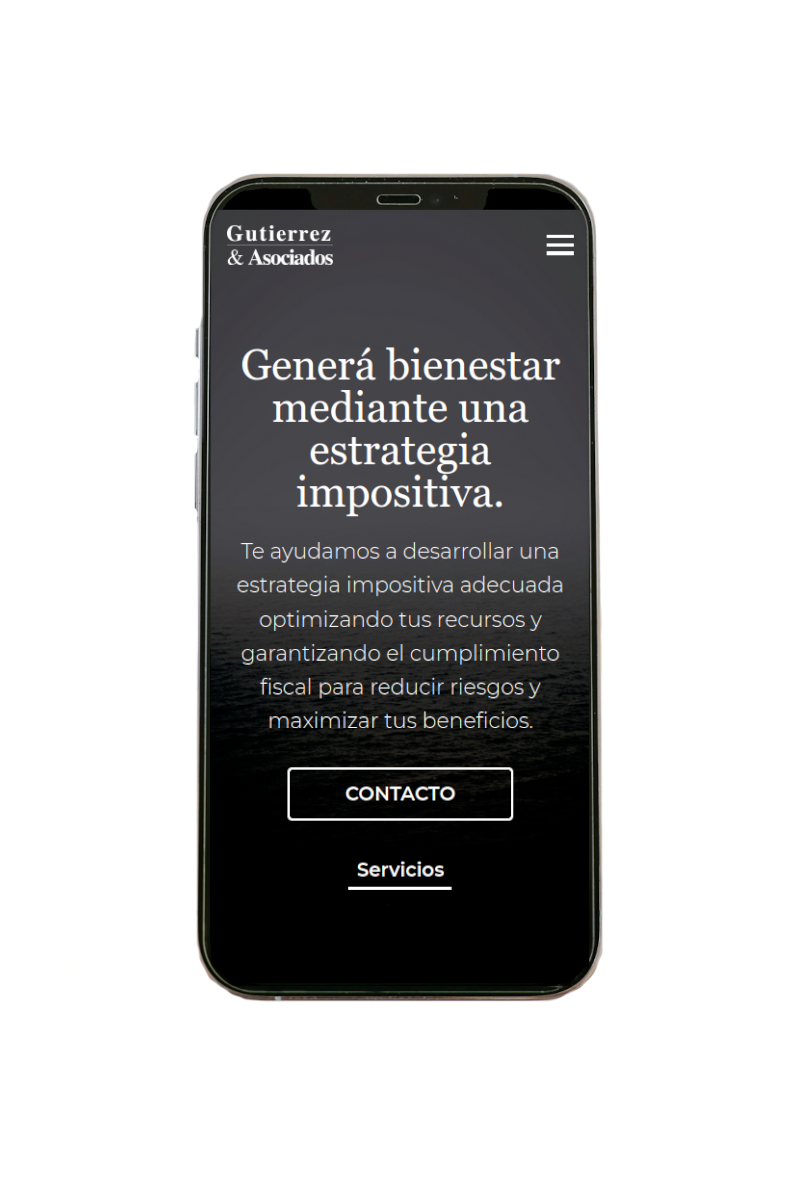
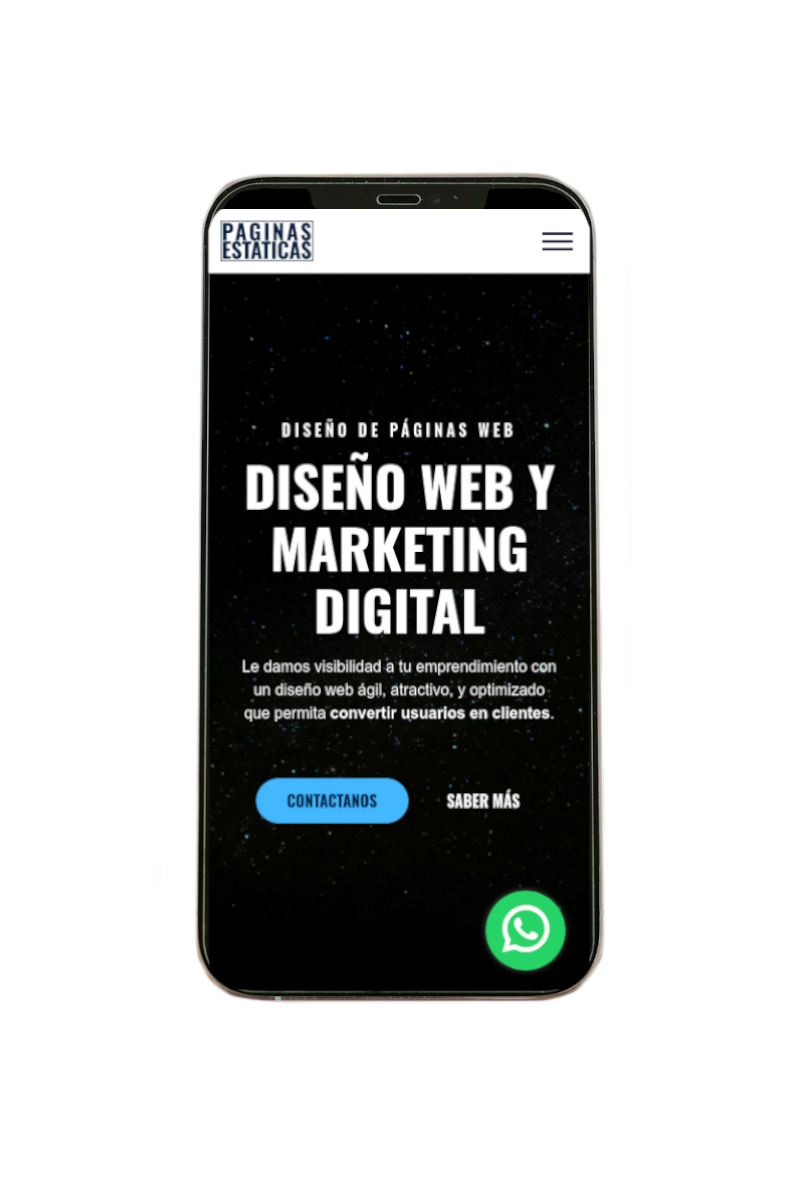
design done

Changed region(s): [[0.2158, 0.1542, 0.7398, 0.74], [0.5857, 0.74, 0.709, 0.8325], [0.2466, 0.8017, 0.3083, 0.8325]]

diff --git a/index.html b/index.html
@@ -76,7 +76,7 @@
                 </div>
             </section>
             <section id="section-que-ofrecemos">
-                <div class="common-padding">
+                <div class="common-padding fade-in-element">
                     <div class="text-container">
                         <span class="small-title">Porque elegirnos</span>
                         <h2>Te ayudamos a llegar a tu público objetivo</h2>
@@ -604,7 +604,7 @@
                         <h2>Resultados que venden</h2>
                     </div>
                     <ul>
-                        <li class="li-beneficio">
+                        <li class="li-beneficio fade-in-element">
                             <div class="svg-container">
                                 <svg
                                     width="24"
@@ -636,7 +636,7 @@
                                 </p>
                             </div>
                         </li>
-                        <li class="li-beneficio">
+                        <li class="li-beneficio fade-in-element">
                             <div class="svg-container">
                                 <svg
                                     width="24"
@@ -674,7 +674,7 @@
                                 </p>
                             </div>
                         </li>
-                        <li class="li-beneficio">
+                        <li class="li-beneficio fade-in-element">
                             <div class="svg-container">
                                 <svg
                                     width="24"
@@ -698,7 +698,7 @@
                                 </p>
                             </div>
                         </li>
-                        <li class="li-beneficio">
+                        <li class="li-beneficio fade-in-element">
                             <div class="svg-container">
                                 <svg
                                     width="24"
@@ -784,10 +784,10 @@
                         <span class="header-footer">Información</span>
                         <ul>
                             <li><a href="index.html">Página principal</a></li>
-                            <li><a href="nosotros.html">Nosotros</a></li>
-                            <li><a href="servicios.html">Servicios</a></li>
-                            <li><a href="faq.html">Preguntas Frequentes</a></li>
-                            <li><a href="contacto.html">Contacto</a></li>
+                            <li><a href="#section-que-ofrecemos">Nosotros</a></li>
+                            <li><a href="#section-que-hacemos">Servicios</a></li>
+                            <li><a href="#section-paquetes">Paquetes</a></li>
+                            <li><a href="#section-contacto">Contacto</a></li>
                         </ul>
                     </div>
                     <div id="footer-div-top-contacto" class="footer-section">

diff --git a/style.css b/style.css
@@ -626,7 +626,7 @@ nav ul li a.active {
     background-color: var(--secondaryColor); /* Background color */
     transform: scaleX(0); /* Start with the background invisible */
     transform-origin: left; /* Animate from the left */
-    transition: transform 0.5s ease-out; /* Animate the background color */
+    transition: transform 0.5s ease-out 0.5s; /* Animate the background color */
 }
   
 .animated-span.visible::before {
@@ -1266,8 +1266,7 @@ footer hr {
         flex-direction: row;
         align-items: center;
         gap: 8rem;
-        padding-top: 8rem;
-        padding-bottom: 8rem;
+        padding: 6rem 0;
     }
 
     #section-statement h1, #section-statement #final-h1 {
@@ -1411,6 +1410,11 @@ footer hr {
 
     .animated-span {
         top: 0.7rem;
+    }
+
+    .animated-span::before {
+
+    transition: transform 0.5s ease-out 0.5s; /* Animate the background color */
     }
 
     #section-paquetes h2 {

diff --git a/Scripts/fadeInElements.js b/Scripts/fadeInElements.js
@@ -62,8 +62,10 @@ document.addEventListener("DOMContentLoaded", () => {
     };
 
     // Apply the delayed visibility to elements inside both #que-hacemos-ul and #portfolio-ul
+    delayElementVisibility("section-que-ofrecemos");
     delayElementVisibility("que-hacemos-ul");
     delayElementVisibility("portfolio-ul");
     delayElementVisibility("ul-paquetes");
+    delayElementVisibility("section-beneficios");
   }
 });
